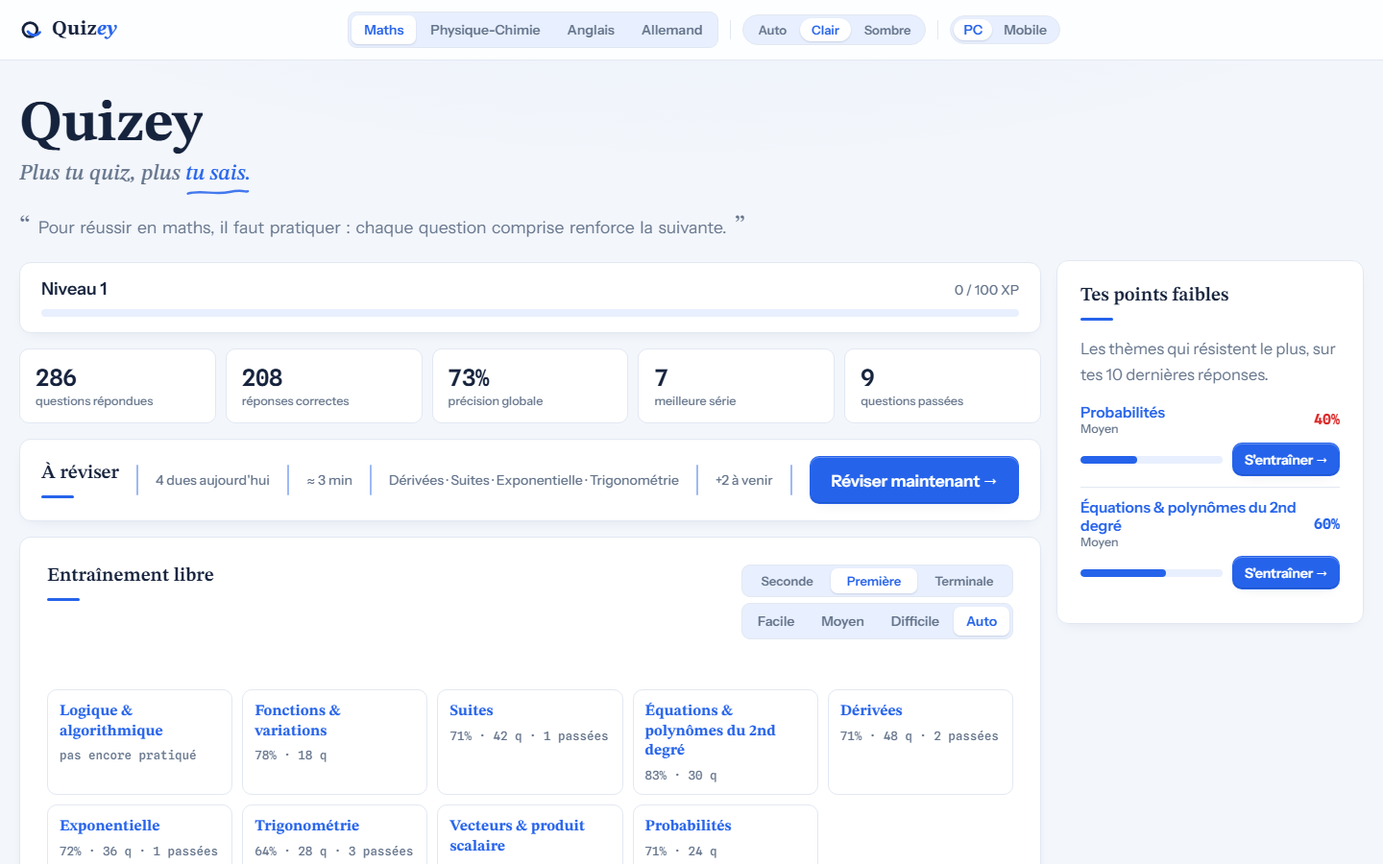
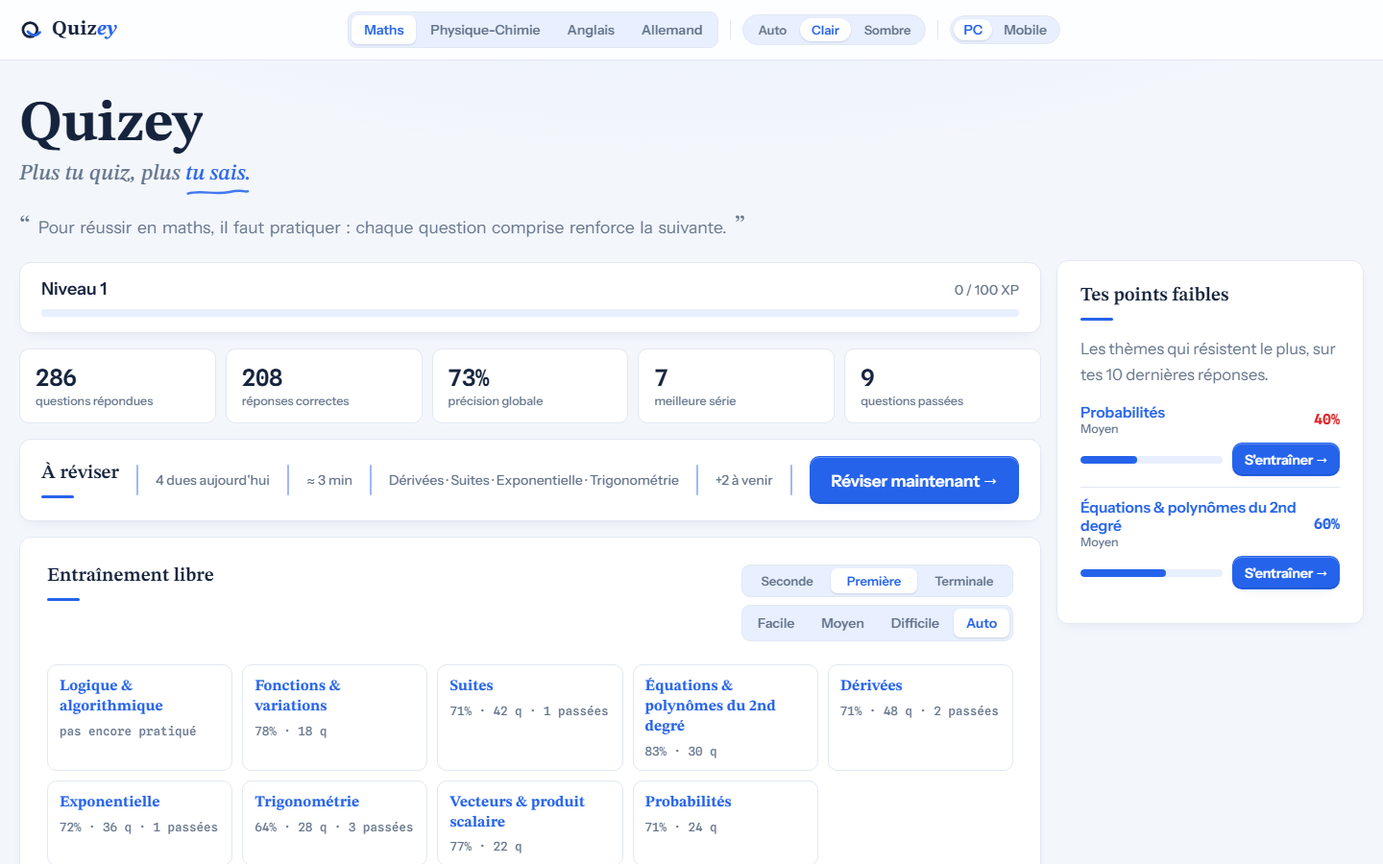
Montée de niveau grossie (~1,3× : halo, carte, anneau, numéro, étincelles — durées et séquence intactes) ; case « Maths expertes » désormais ABSENTE en Seconde/Première (hidden, plus d'espace réservé — écart « niveaux → chapitres » = autres matières), resserrement ≈52 px scopé Terminale seule via :h

diff --git a/Quizey.html b/Quizey.html
@@ -346,10 +346,10 @@ html.boot .slogan .soft{opacity:0;animation:saiIn .5s var(--ease) both;animation
    (2026-08-23, Cid). Même gabarit que les lignes Année/Niveau (13 px,
    padding 5×10, rayon 9) et ton DISCRET : le texte est en étalon, la case
    petite ; seule la sélection passe à l'accent — même langage que les
-   boutons .seg-btn.on (fond surface + accent + ombre). En maths, l'espace
-   de la ligne est RÉSERVÉ en permanence (syncXopt pose .off =
-   visibility:hidden, pas display:none) → le bloc ne change plus de taille
-   quand on sélectionne une autre année. Absente en PC/DE/EN (hidden). */
+   boutons .seg-btn.on (fond surface + accent + ombre). Visible UNIQUEMENT
+   maths × Terminale : en Seconde/Première et en PC/DE/EN elle est
+   totalement absente (hidden — 2026-08-24, 2ᵉ passe Cid : plus d'espace
+   réservé, l'écart « niveaux → chapitres » est le même qu'ailleurs). */
 .xopt{display:flex;align-items:center;gap:8px;cursor:pointer;user-select:none;
   font:500 13px/1.35 var(--f-body);color:var(--muted);
   background:var(--accent-soft);border:1px solid var(--line);border-radius:9px;padding:5px 10px;
@@ -358,16 +358,17 @@ html.boot .slogan .soft{opacity:0;animation:saiIn .5s var(--ease) both;animation
 .xopt.on{color:var(--accent);border-color:var(--accent);background:var(--surface);box-shadow:0 1px 2px rgba(31,46,71,.14)}
 .xopt input{accent-color:var(--accent);width:14px;height:14px;flex:none;margin:0;cursor:pointer}
 .xopt[hidden]{display:none}
-.xopt.off{visibility:hidden}
-/* (2026-08-24, Cid) : en maths, l'écart visible « niveaux → chapitres »
-   contenait la ligne expertes RÉSERVÉE (~26 px, .off) + 2 gaps de 8 px + la
-   marge de tête de 24 px ≈ 58 px, contre ~24 px en PC/DE/EN — jugé légèrement
-   trop grand. On le resserre de ~10 px (gaps 8→6 px, marge 24→16 px) en maths
-   SEULE (la ligne expertes n'existe que là) : la réservation reste exactement
-   égale à la hauteur visible → aucun changement de taille au changement
-   d'année, comme avant. */
-:root:not([data-mat]) .picks{gap:6px}
-:root:not([data-mat]) .lead-head{margin-bottom:16px}
+/* (2026-08-24, Cid, 2 passe) : en maths, l'écart visible « niveaux →
+   chapitres » contenait la ligne expertes + 2 gaps de 8 px + la marge de tête
+   de 24 px ≈ 58 px, contre ~24 px en PC/DE/EN — jugé trop grand. En
+   SECONDE/PREMIÈRE la ligne est maintenant ABSENTE (syncXopt pose hidden) →
+   l'écart y est déjà le même qu'ailleurs (~24 px). Le resserrement
+   (gaps 8→6 px, marge 24→16 px ≈ 52 px) ne s'applique donc plus qu'en
+   TERMINALE, seule année où la ligne est visible — scopé via :has() sur le
+   bouton d'année actif. Vieil navigateur sans :has → règles ignorées → écart
+   par défaut (la ligne reste masquée par le JS, donc pas de régression). */
+:root:not([data-mat]):has(#yearRow [data-year="terminale"].on) .picks{gap:6px}
+:root:not([data-mat]):has(#yearRow [data-year="terminale"].on) .lead-head{margin-bottom:16px}
 /* (2026-08-24, Cid) Checkbox « Maths expertes » EN MODE SOMBRE : fini le
    carré natif blanc (et l'état coché #60A5FA, quasi-blanc sur le fond nuit)
    — la case est dessinée, en bleu de marque #2563EB (lisible sur le bleu
@@ -752,17 +753,17 @@ html.boot .subcard{animation:rvIn .7s var(--ease) both;animation-delay:calc((.95
 .lvlup.go{opacity:1}
 .lvlup.bye{opacity:0}
 .lvlup-glow{
-  position:absolute;left:50%;top:50%;width:min(440px,94vw);height:min(440px,94vw);border-radius:50%;
+  position:absolute;left:50%;top:50%;width:min(560px,96vw);height:min(560px,96vw);border-radius:50%;
   background:radial-gradient(closest-side,var(--accent-soft),transparent 72%);
   opacity:0;transform:translate(-50%,-50%) scale(.55);
   transition:opacity .55s var(--ease),transform .7s cubic-bezier(.2,1.3,.4,1);
 }
 .lvlup.go .lvlup-glow{opacity:.85;transform:translate(-50%,-50%) scale(1)}
 .lvlup.up .lvlup-glow{opacity:1;transform:translate(-50%,-50%) scale(1.14)}
-.lvlup-card{display:flex;flex-direction:column;align-items:center;gap:12px;padding:26px 36px;background:var(--surface);border:1px solid var(--line);border-radius:18px;box-shadow:var(--shadow);transform:scale(.7);transition:transform .4s cubic-bezier(.34,1.56,.64,1)}
+.lvlup-card{display:flex;flex-direction:column;align-items:center;gap:14px;padding:30px 44px;background:var(--surface);border:1px solid var(--line);border-radius:18px;box-shadow:var(--shadow);transform:scale(.7);transition:transform .4s cubic-bezier(.34,1.56,.64,1)}
 .lvlup.go .lvlup-card{transform:scale(1)}
-.lvlup-kick{font:600 12px var(--f-body);text-transform:uppercase;letter-spacing:.14em;color:var(--muted)}
-.lvlup-numwrap{position:relative;width:124px;height:124px;display:grid;place-items:center}
+.lvlup-kick{font:600 13px var(--f-body);text-transform:uppercase;letter-spacing:.14em;color:var(--muted)}
+.lvlup-numwrap{position:relative;width:160px;height:160px;display:grid;place-items:center}
 .lvlup-ring{position:absolute;inset:0;width:100%;height:100%;transform:rotate(-90deg)}
 .lvlup-ring circle{fill:none;stroke-width:4}
 .lvlup-ring .ring-bg{stroke:var(--accent-soft)}
@@ -770,10 +771,10 @@ html.boot .subcard{animation:rvIn .7s var(--ease) both;animation-delay:calc((.95
    rapide. COUPLÉ au setTimeout du swap de numéro dans levelUp() : ce
    dernier doit rester APRÈS la fin du remplissage (0,15 + 1,4 = 1,55 s). */
 .lvlup-ring .ring-fg{stroke:var(--accent);stroke-linecap:round;transition:stroke-dashoffset 1.4s var(--ease) .15s}
-.lvlup-num{font:700 46px/1 var(--f-display);color:var(--muted);transition:color .3s var(--ease)}
+.lvlup-num{font:700 60px/1 var(--f-display);color:var(--muted);transition:color .3s var(--ease)}
 .lvlup.up .lvlup-num{color:var(--accent);animation:numPop .55s var(--ease);filter:drop-shadow(0 3px 10px var(--accent))}
 @keyframes numPop{0%{transform:scale(.45)}60%{transform:scale(1.2)}100%{transform:scale(1)}}
-.lvlup-nm{font:600 14px var(--f-body);color:var(--muted)}
+.lvlup-nm{font:600 15px var(--f-body);color:var(--muted)}
 .lvlup-sparks{position:absolute;inset:0}
 .lvlup-sparks i{position:absolute;left:50%;top:50%;border-radius:50%;opacity:0}
 .lvlup.up .lvlup-sparks i{animation:sparkFly .95s var(--ease) forwards}
@@ -1029,6 +1030,11 @@ const F=(n,d)=>{const f=fr(n,d);if(f.d===1)return f.n<0?"−"+(-f.n):String(f.n)
 const fs=(n,d)=>F(n,d);   /* affichage d'une réponse fraction (fraction empilée) */
 const fa=(n,d)=>fr(n,d);   /* réponse "fraction" : {n,d} simplifiée */
 const shuf=a=>{a=a.slice();for(let i=a.length-1;i>0;i--){const j=Ri(0,i);[a[i],a[j]]=[a[j],a[i]];}return a;};
+/* Exposants Unicode (2026-08-24, Cid) : rend un entier en superscript typographique
+   (2 → «²», −12 → «⁻¹²») pour les énoncés maths — plus lisible que «^2».
+   Un caractère hors chiffres/minus se replie tel quel (jamais d'erreur). */
+const SUP={0:"⁰",1:"¹",2:"²",3:"³",4:"⁴",5:"⁵",6:"⁶",7:"⁷",8:"⁸",9:"⁹","-":"⁻"};
+const sup=(v)=>String(v).split("").map(c=>SUP[c]||c).join("");
 const qcm=(p,bonne,ds,explain,viz)=>{const o=shuf([bonne,...ds]);const r={prompt:p,type:"choice",options:o,correct:o.indexOf(bonne),explain};if(viz)r.viz=viz;return r;}; /* QCM : options mélangées, correct = index réel de la bonne option ; viz optionnel (mini-visuel) */
 /* ================= GENERATORS ================= */
 
@@ -1046,7 +1052,7 @@ const G_S2_LOG=[
    const bank=[
     {p:"Tout carré d'un entier est positif.",n:"Il existe un entier dont le carré n'est pas positif.",d:["Aucun carré d'entier n'est positif.","Tous les carrés d'entiers sont négatifs."]},
     {p:"Tout multiple de 4 est un multiple de 2.",n:"Il existe un multiple de 4 qui n'est pas un multiple de 2.",d:["Aucun multiple de 4 n'est un multiple de 2.","Tout multiple de 2 est un multiple de 4."]},
-    {p:"Il existe un nombre réel dont le carré vaut −1.",n:"Tout nombre réel a un carré différent de −1.",d:["Aucun nombre réel n'a de carré.","Tous les carrés de réels valent −1."]}
+    {p:"Il existe x ∈ ℝ tel que x² = −1.",n:"Pour tout x ∈ ℝ, x² ≠ −1.",d:["Aucun nombre réel n'a de carré.","Tous les carrés de réels valent −1."]}
    ];
    const b=pick(bank);
    return qcm(`Quelle est la négation de la proposition « ${b.p} » ?`,b.n,b.d,
@@ -1101,7 +1107,7 @@ let _s2flip=0; /* alternance PGCD / PPCM entre tirages consécutifs */
 const G_S2_NUM=[
  {lvl:"facile",make(){
    const a=Ri(2,7),b=Ri(0,4);
-   return{prompt:`Calcule 2^${a} × 2^${b} = 2^c. Quel est c ?`,
+   return{prompt:`Calcule 2${sup(a)} × 2${sup(b)} = 2ᶜ. Quel est c ?`,
     type:"number",answer:a+b,
     explain:`Même base : on additionne les exposants — ${a} + ${b} = <b>${a+b}</b>.`};
  }},
@@ -1158,9 +1164,9 @@ const G_S2_FONC=[
 const G_S2_VECT=[
  {lvl:"facile",make(){
    const u=[Ri(1,4),Ri(1,4)],k=Ri(2,6);
-   return{prompt:`u = (${u[0]} ; ${u[1]}) et v = (${k*u[0]} ; ${k*u[1]}). Sachant que v = k · u, calcule k.`,
+   return{prompt:`u⃗ = (${u[0]} ; ${u[1]}) et v⃗ = (${k*u[0]} ; ${k*u[1]}). Sachant que v⃗ = k · u⃗, calcule k.`,
     type:"number",answer:k,
-    explain:`v = k·u ⇒ k = v_x / u_x = ${k*u[0]} / ${u[0]} = <b>${k}</b>.<br>Vérif sur la 2ᵉ coordonnée : ${k*u[1]} / ${u[1]} = ${k}. ✓`};
+    explain:`v⃗ = k·u⃗ ⇒ k = vₓ / uₓ = ${k*u[0]} / ${u[0]} = <b>${k}</b>.<br>Vérif sur la 2ᵉ coordonnée : ${k*u[1]} / ${u[1]} = ${k}. ✓`};
  }},
  {lvl:"moyen",make(){
    const d=pick([[3,4,5],[5,12,13],[8,15,17],[9,12,15]]);
@@ -1282,7 +1288,7 @@ const G_SUITES=[
    const an=u0*Math.pow(q,n);
    return{prompt:`(uₙ) est géométrique de premier terme u₀ = ${u0} et de raison q = ${q}. Calcule u${sub(n)}.`,
     type:"number",answer:an,
-    explain:`uₙ = u₀ × qⁿ = ${u0} × ${q}^${n} = <b>${an}</b>.`};
+    explain:`uₙ = u₀ × q${sup(n)} = ${u0} × ${q}${sup(n)} = <b>${an}</b>.`};
  }},
  {lvl:"difficile",make(){
    const a=pick([2,3,-2]),b=pick([-4,-2,2,4]),u0=pick([-3,-2,-1,1,2,3]);
@@ -1312,7 +1318,7 @@ const G_EQ2=[
    const pt=p===0?"":(p>0?` + ${p}x`:` − ${-p}x`);
    const qt=q>0?` + ${q}`:` − ${-q}`;
    const somme=pick([1,0]);
-   return{prompt:`L'équation x²${pt}${qt} = 0 a deux racines réelles. Calcule ${somme?"la somme":"le produit"} des racines.`,
+   return{prompt:`L'équation x²${pt}${qt} = 0 admet deux racines dans ℝ. Calcule ${somme?"la somme":"le produit"} des racines.`,
     type:"number",answer:somme?a+b:a*b,
     explain:`Relations de Viète : pour x² + px + q = 0, la somme des racines vaut −p et le produit vaut q.<br>Ici ${somme?`la somme vaut −(${p}) = <b>${a+b}</b>`:`le produit vaut q = <b>${a*b}</b>`}.`};
  }},
@@ -1360,21 +1366,21 @@ const G_DERIV=[
 const G_LOGEXP=[
  {lvl:"facile",make(){
    const a=Ri(-5,5),b=Ri(-5,5);
-   return{prompt:`Sachant que e^${a} × e^${b} = e^c, calcule c.`,
+   return{prompt:`Sachant que e${sup(a)} × e${sup(b)} = eᶜ, calcule c.`,
     type:"number",answer:a+b,
     explain:`Propriété de l'exponentielle : e^a × e^b = e^(a+b).<br>Donc c = ${a} + ${b} = <b>${a+b}</b>.`};
  }},
  {lvl:"moyen",make(){
    const m=pick([2,3,-2]),x=Ri(-4,4),c=m*x;
-   return{prompt:`Résous l'équation e^(${m}x) = e^${c}.`,
+   return{prompt:`Résous l'équation e^(${m}x) = e${sup(c)}.`,
     type:"number",answer:x,
     explain:`La fonction exp est strictement croissante, donc injective : e^u = e^v ⇔ u = v.<br>Donc ${m}x = ${c} → x = <b>${x}</b>.`};
  }},
  {lvl:"difficile",make(){
    const n=pick([1,2,3]);
-   return qcm(`Quelle est la limite de e^x / x^${n} quand x → +∞ ?`,
+   return qcm(`Quelle est la limite de eˣ / x${sup(n)} quand x → +∞ ?`,
     `+∞`,[`0`,`−∞`,`La limite n'existe pas`],
-    `Croissance comparée : l'exponentielle l'emporte sur toute puissance de x.<br>e^x / x^${n} → <b>+∞</b> (et réciproquement x^${n} / e^x → 0).`);
+    `Croissance comparée : l'exponentielle l'emporte sur toute puissance de x.<br>eˣ / x${sup(n)} → <b>+∞</b> (et réciproquement x${sup(n)} / eˣ → 0).`);
  }}
 ];
 
@@ -1421,19 +1427,19 @@ const G_VECT=[
  {lvl:"facile",make(){
    const u=[Ri(-5,5)||2,Ri(-5,5)||1],v=[Ri(-5,5)||1,Ri(-5,5)||3];
    const p=u[0]*v[0]+u[1]*v[1];
-   return{prompt:`u = (${u[0]} ; ${u[1]}) et v = (${v[0]} ; ${v[1]}). Calcule le produit scalaire u·v.`,
+   return{prompt:`u⃗ = (${u[0]} ; ${u[1]}) et v⃗ = (${v[0]} ; ${v[1]}). Calcule le produit scalaire u⃗·v⃗.`,
     type:"number",answer:p,
-    explain:`u·v = ${u[0]} × ${v[0]} + ${u[1]} × ${v[1]} = ${u[0]*v[0]} ${u[1]*v[1]<0?"− "+(-u[1]*v[1]):"+ "+u[1]*v[1]} = <b>${p}</b>.`};
+    explain:`u⃗·v⃗ = ${u[0]} × ${v[0]} + ${u[1]} × ${v[1]} = ${u[0]*v[0]} ${u[1]*v[1]<0?"− "+(-u[1]*v[1]):"+ "+u[1]*v[1]} = <b>${p}</b>.`};
  }},
  {lvl:"moyen",make(){
    const u=pick([[1,2],[2,1],[1,3],[3,2]]);
    const v=[u[1],-u[0]];
    const bad=shuf([[1,1],[2,3],[1,-1],[3,1]].filter(w=>u[0]*w[0]+u[1]*w[1]!==0)).slice(0,2);
    const d1=bad[0],d2=bad[1];
-   return qcm(`Quel couple de vecteurs du plan est orthogonal ?`,
-    `u = (${u[0]} ; ${u[1]}) et v = (${v[0]} ; ${v[1]})`,
-    [`u = (${u[0]} ; ${u[1]}) et v = (${d1[0]} ; ${d1[1]})`,`u = (${u[0]} ; ${u[1]}) et v = (${d2[0]} ; ${d2[1]})`],
-    `Deux vecteurs sont orthogonaux si et seulement si u·v = 0 : ici ${u[0]} × ${v[0]} + ${u[1]} × ${v[1]} = <b>0</b>.`);
+   return qcm(`Quel couple de vecteurs du plan est orthogonal (u⃗ ⊥ v⃗) ?`,
+    `u⃗ = (${u[0]} ; ${u[1]}) et v⃗ = (${v[0]} ; ${v[1]})`,
+    [`u⃗ = (${u[0]} ; ${u[1]}) et v⃗ = (${d1[0]} ; ${d1[1]})`,`u⃗ = (${u[0]} ; ${u[1]}) et v⃗ = (${d2[0]} ; ${d2[1]})`],
+    `Deux vecteurs sont orthogonaux si et seulement si u⃗·v⃗ = 0 : ici ${u[0]} × ${v[0]} + ${u[1]} × ${v[1]} = <b>0</b>.`);
  }},
  {lvl:"difficile",make(){
    const d=pick([[3,4,5],[5,12,13],[8,15,17],[9,12,15]]);
@@ -1449,7 +1455,7 @@ const G_PROBA=[
    const n=pick([2,3,4]);
    return{prompt:`On lance ${n} fois une pièce équilibrée. Quelle est la probabilité d'obtenir pile les ${n} fois ?`,
     type:"frac",answer:fa(1,Math.pow(2,n)),
-    explain:`Les lancers sont indépendants : P = (1/2)^${n} = 1/${Math.pow(2,n)} = <b>${F(1,Math.pow(2,n))}</b>.`};
+    explain:`Les lancers sont indépendants : P = (1/2)${sup(n)} = 1/${Math.pow(2,n)} = <b>${F(1,Math.pow(2,n))}</b>.`};
  }},
  {lvl:"moyen",make(){
    const bank=[
@@ -1478,10 +1484,10 @@ const G_PROBA=[
 /* ---------- TERMINALE — Logique & listes (nouveau — BO 2026) ---------- */
 const G_T_LOG=[
  {lvl:"facile",make(){
-   return qcm(`Quelle est la négation de « il existe un réel x tel que x² = 2 » ?`,
-    `tout réel x vérifie x² ≠ 2`,
-    [`il existe un réel x tel que x² ≠ 2`,`tout réel x vérifie x² = 2`,`il n'existe aucun réel`],
-    `Négation de « ∃ x, P(x) » = « ∀ x, non P(x) ».<br>→ « tout réel a un carré différent de 2 ».`);
+   return qcm(`Quelle est la négation de « il existe x ∈ ℝ tel que x² = 2 » ?`,
+    `pour tout x ∈ ℝ, x² ≠ 2`,
+    [`il existe x ∈ ℝ tel que x² ≠ 2`,`pour tout x ∈ ℝ, x² = 2`,`il n'existe aucun réel`],
+    `Négation de « ∃ x, P(x) » = « ∀ x, non P(x) ».<br>→ « pour tout x ∈ ℝ, x² ≠ 2 ».`);
  }},
  {lvl:"moyen",make(){
    const a=Ri(1,6),b=Ri(1,6);
@@ -1503,7 +1509,7 @@ const G_T_DEN=[
    const n=Ri(4,9),k=pick([2,3]),an=Math.pow(n,k);
    return{prompt:`Combien de mots de ${k} lettres peut-on former avec un alphabet de ${n} lettres (répétition autorisée) ?`,
     type:"number",answer:an,
-    explain:`Principe multiplicatif : ${n} choix pour la 1ʳᵉ lettre, ${n} pour la 2ᵉ, etc.<br>Nombre de k-uplets = ${n}^${k} = <b>${an}</b>.`};
+    explain:`Principe multiplicatif : ${n} choix pour la 1ʳᵉ lettre, ${n} pour la 2ᵉ, etc.<br>Nombre de k-uplets = ${n}${sup(k)} = <b>${an}</b>.`};
  }},
  {lvl:"moyen",make(){
    const n=Ri(3,7);
@@ -1528,19 +1534,19 @@ const G_T_ESP=[
  {lvl:"facile",make(){
    const u=[Ri(1,4),Ri(1,4),Ri(1,3)],k=Ri(2,4);
    const v=[k*u[0],k*u[1],k*u[2]];
-   return qcm(`u = (${u[0]} ; ${u[1]} ; ${u[2]}) et v = (${v[0]} ; ${v[1]} ; ${v[2]}). Ces deux vecteurs sont :`,
+   return qcm(`u⃗ = (${u[0]} ; ${u[1]} ; ${u[2]}) et v⃗ = (${v[0]} ; ${v[1]} ; ${v[2]}). Ces deux vecteurs sont :`,
     `colinéaires`,
     [`orthogonaux`,`ni colinéaires ni orthogonaux`,`égaux`],
-    `Les trois composantes de v sont égales à ${k} fois celles de u : v = ${k}·u, donc <b>colinéaires</b>.`);
+    `Les trois composantes de v⃗ sont égales à ${k} fois celles de u⃗ : v⃗ = ${k}·u⃗, donc <b>colinéaires</b>.`);
  }},
  {lvl:"moyen",make(){
    const u=[Ri(1,5),Ri(1,5),Ri(1,4)];
    const ortho=pick([1,0]);
    const v=ortho?[u[1],-u[0],0]:[Ri(1,4),Ri(1,4),Ri(1,4)];
    const p=u[0]*v[0]+u[1]*v[1]+u[2]*v[2];
-   return{prompt:`u = (${u[0]} ; ${u[1]} ; ${u[2]}) et v = (${v[0]} ; ${v[1]} ; ${v[2]}). Calcule u·v.`,
+   return{prompt:`u⃗ = (${u[0]} ; ${u[1]} ; ${u[2]}) et v⃗ = (${v[0]} ; ${v[1]} ; ${v[2]}). Calcule u⃗·v⃗.`,
     type:"number",answer:p,
-    explain:`u·v = ${u[0]} × ${v[0]} + (${u[1]} × ${v[1]}) + (${u[2]} × ${v[2]}) = ${u[0]*v[0]} ${u[1]*v[1]<0?"− "+(-u[1]*v[1]):"+ "+u[1]*v[1]} ${u[2]*v[2]<0?"− "+(-u[2]*v[2]):"+ "+u[2]*v[2]} = <b>${p}</b>${ortho?" (donc u et v sont orthogonaux).":""}`};
+    explain:`u⃗·v⃗ = ${u[0]} × ${v[0]} + (${u[1]} × ${v[1]}) + (${u[2]} × ${v[2]}) = ${u[0]*v[0]} ${u[1]*v[1]<0?"− "+(-u[1]*v[1]):"+ "+u[1]*v[1]} ${u[2]*v[2]<0?"− "+(-u[2]*v[2]):"+ "+u[2]*v[2]} = <b>${p}</b>${ortho?" (donc u⃗ et v⃗ sont orthogonaux).":""}`};
  }},
  {lvl:"difficile",make(){
    const [a,b,c]=shuf([1,2,3,4,5,6]).slice(0,3);
@@ -1587,9 +1593,9 @@ const G_T_SUIT=[
 const G_T_EXP=[
  {lvl:"facile",make(){
    const a=Ri(-5,5);
-   return{prompt:`Calcule ln(e^${a}).`,
+   return{prompt:`Calcule ln(e${sup(a)}).`,
     type:"number",answer:a,
-    explain:`ln est la fonction réciproque de exp : ln(e^x) = x pour tout réel x.<br>Donc ln(e^${a}) = <b>${a}</b>.`};
+    explain:`ln est la fonction réciproque de exp : ln(eˣ) = x pour tout réel x.<br>Donc ln(e${sup(a)}) = <b>${a}</b>.`};
  }},
  {lvl:"moyen",make(){
    const a=Ri(2,12);
@@ -1643,9 +1649,9 @@ const G_T_DER=[
     {a:4,n:3,ans:[16,1]},
     {a:1,n:2,ans:[1,3]}
    ]);
-   return{prompt:`Calcule ∫₀^${d.a} x^${d.n} dx.`,
+   return{prompt:`Calcule ∫₀${sup(d.a)} x${sup(d.n)} dx.`,
     type:"frac",answer:fa(d.ans[0],d.ans[1]),
-    explain:`Une primitive de x^${d.n} est F(x) = x^${d.n+1} / ${d.n+1}.<br>∫₀^${d.a} x^${d.n} dx = F(${d.a}) − F(0) = <b>${F(d.ans[0],d.ans[1])}</b>.`};
+    explain:`Une primitive de x${sup(d.n)} est F(x) = x${sup(d.n+1)} / ${d.n+1}.<br>∫₀${sup(d.a)} x${sup(d.n)} dx = F(${d.a}) − F(0) = <b>${F(d.ans[0],d.ans[1])}</b>.`};
  }},
  {lvl:"difficile",make(){
    return{prompt:`Calcule ∫₀¹ x · eˣ dx (intégration par parties).`,
@@ -1662,7 +1668,7 @@ const G_T_PROBA=[
    const num=C(n,k),den=Math.pow(2,n);
    return{prompt:`X suit la loi binomiale B(${n} ; 1/2). Calcule P(X = ${k}).`,
     type:"frac",answer:fa(num,den),
-    explain:`P(X = k) = C(${n},${k}) × (1/2)^${n} = ${num}/${den} = <b>${F(num,den)}</b>.`};
+    explain:`P(X = k) = C(${n},${k}) × (1/2)${sup(n)} = ${num}/${den} = <b>${F(num,den)}</b>.`};
  }},
  {lvl:"moyen",make(){
    const bank=[
@@ -4415,17 +4421,17 @@ function paintLvlButtons(){
    uniquement en maths × Terminale : elle ajoute les 3 thèmes du programme
    officiel expertes (complexes, arithmétique, graphes & Markov) au pool de
    Terminale — 8 → 11 thèmes. Plus une 4ᵉ année ni un niveau : les boutons
-   de niveau restent Facile/Moyen/Difficile/Auto partout. En maths hors
-   Terminale, la ligne est masquée mais son ESPACE EST RÉSERVÉ (.off =
-   visibility:hidden) → le bloc ne change pas de taille quand on change
-   d'année ; en PC/DE/EN elle est absente (hidden). Persistance
-   qz_experte_math. */
+   de niveau restent Facile/Moyen/Difficile/Auto partout. 2026-08-24, 2ᵉ
+   passe Cid : en maths hors Terminale (Seconde/Première) la ligne est
+   maintenant TOTALEMENT ABSENTE (hidden — plus d'espace réservé .off) →
+   l'écart « niveaux → chapitres » y est le même qu'en PC/DE/EN. En
+   Terminale elle reste visible. Persistance qz_experte_math. */
 function syncXopt(){
   const row=$("#xoptRow"),chk=$("#xoptChk");
   if(!row||!chk)return;
-  const maths=state.matiere==="maths";
-  row.hidden=!maths;   /* absente (display:none) en PC/DE/EN */
-  row.classList.toggle("off",maths&&state.annee!=="terminale"); /* maths : espace réservé, ligne masquée hors Terminale */
+  /* Visible UNIQUEMENT maths × Terminale : ailleurs (Seconde/Première/PC/DE/EN)
+     hidden = display:none, l'écart « niveaux → chapitres » est le même qu'ailleurs. */
+  row.hidden=!(state.matiere==="maths"&&state.annee==="terminale");
   row.classList.toggle("on",!!state.experte);
   chk.checked=!!state.experte;
 }
@@ -5037,9 +5043,9 @@ function levelUp(oldN,newN){
   if(box){
     let h="";
     for(let i=0;i<14;i++){
-      const a=Math.random()*Math.PI*2, d=78+Math.random()*95;
+      const a=Math.random()*Math.PI*2, d=105+Math.random()*115;
       const dx=Math.round(Math.cos(a)*d), dy=Math.round(Math.sin(a)*d);
-      const s=Math.round(4+Math.random()*4);
+      const s=Math.round(5+Math.random()*5);
       const col=Math.random()<.6?"var(--accent)":"#FBBF24";
       h+='<i style="width:'+s+'px;height:'+s+'px;background:'+col+';--dx:'+dx+'px;--dy:'+dy+'px;animation-delay:'+Math.round(Math.random()*140)+'ms"></i>';
     }

diff --git a/_qz_verify.js b/_qz_verify.js
@@ -1400,20 +1400,24 @@ console.log("\n[31] Expertes — case à cocher de Terminale maths (programme of
     ok("les 3 thèmes expertes sont servis sur 99 tirages (mélange)",
        seen.has("t_complexes")&&seen.has("t_arith")&&seen.has("t_graphes"));
   }
-  /* --- F3. UI : ligne « Maths expertes » — ESPACE RÉSERVÉ en maths à toutes
-     les années (pas de saut de mise en page), visible UNIQUEMENT en
-     Terminale, absente en PC/DE/EN --- */
+  /* --- F3. UI : ligne « Maths expertes » — visible UNIQUEMENT maths ×
+     Terminale ; en Seconde/Première elle est TOTALEMENT ABSENTE (hidden,
+     plus d'espace réservé — 2026-08-24, 2ᵉ passe Cid : l'écart « niveaux →
+     chapitres » est alors le même qu'ailleurs), absente en PC/DE/EN --- */
   lsData.clear();
   {
     const env=buildEnv();const ctx=runApp(env);
     const row=()=>env.document.querySelector("#xoptRow");
-    ok("maths/premiere : ligne présente (espace réservé) mais masquée (off)",
-       row().hidden===false&&row().classList.contains("off"));
+    ok("maths/premiere : ligne absente (hidden — plus d'espace réservé)",
+       row().hidden===true);
     vm.runInContext("setAnnee('terminale')",ctx);
-    ok("maths/terminale : ligne visible (ni hidden ni off)",
-       row().hidden===false&&!row().classList.contains("off"));
+    ok("maths/terminale : ligne visible (pas de hidden)",
+       row().hidden===false);
+    vm.runInContext("setAnnee('seconde')",ctx);
+    ok("maths/seconde : ligne absente (hidden)",
+       row().hidden===true);
     vm.runInContext("setMatiere('pc')",ctx);
-    ok("pc/terminale : ligne absente (hidden — maths uniquement)",row().hidden===true);
+    ok("pc : ligne absente (hidden — maths uniquement)",row().hidden===true);
     vm.runInContext("setMatiere('de')",ctx);
     ok("DE : ligne absente (hidden)",row().hidden===true);
   }

diff --git a/docs/verification.md b/docs/verification.md
@@ -55,7 +55,7 @@ Le script compile les **deux** blocs `<script>` (anti-flash + principal) via `vm
 - **Section [28] — hero : pas de ligne classe/matière, phrase de base unique par matière (2026-08-22, sur demande)** : la ligne d'indication (eyebrow) est retirée de **toutes** les matières — `#heroEyebrow` absent du DOM, le code ne le référence plus — et `#heroLede` porte la phrase de base de la matière, **identique quelle que soit l'année** : vérifiée pour les 4 matières (maths « Pour réussir en maths, il faut pratiquer… », PC « …relier les formules aux situations… », DE « …se familiariser avec la langue… », EN « …entendre la langue, la lire et la réutiliser… »), au boot **et** après `setMatiere`/`setAnnee` (maths/PC × année).
 - **Section [29] — doublons hérités de la liste à réviser (2026-08-22, bug signalé par Cid)** : un localStorage hérite de **2 entrées identiques** de la même question (ajoutées par l'ancien `qKey` avant la dédup [21]) → au chargement il n'en reste **une seule**, la **plus avancée** (`reps` max — la progression espacée est intacte), au contenu pédagogique retrouvé via le `qKey` actuel ; une bonne réponse sur cette question élimine alors **toutes** les échéances (avant la correction, la double écriture la faisait revenir en boucle).
 - **Section [30] — puce de niveau dans la barre (2 modes)** : l'écran de question affiche « Niv. N » en **libre et révision**, avant et après la réponse ; une bonne réponse qui franchit un palier passe la puce de N à N+1 **immédiatement** (re-rendue par `gainXp`) ; la bascule de matière (maths → DE) affiche le niveau **DE** — l'XP est par matière, jamais partagée.
-- **Section [31] — case « Maths expertes » (2026-08-23, sur demande de Cid — ex-4ᵉ année maths)** : « Expertes » n'est **plus une année** — c'est une **case à cocher** dans le bloc « Entraînement libre », visible **uniquement en maths × Terminale** : cochée, elle ajoute les **3 thèmes** du programme officiel des maths expertes (complexes, arithmétique, graphes & chaînes de Markov) au pool de Terminale (8 → 11 thèmes). Règles vérifiées — **structure** : `SUBJECTS_MATH.experte` = exactement 3 thèmes (`t_arith`/`t_complexes`/`t_graphes`), `SUBJECTS_PC.experte` **absent**, et les 12 questions expertes sont renivelées **facile/moyen/difficile** (aucun niveau « experte ») ; **années** : `yearsFor()` renvoie **3 années partout** (maths/PC/DE/EN — plus de 4ᵉ année) ; **migration** : `qz_year_math=« experte »` (valeur héritée) → `readYear('maths')=« terminale »` **et la case est cochée** (`qz_experte_math=true`) ; `qz_year_pc=« experte »` → `« premiere »` (PC ne la porte jamais) ; DE/EN → `null` ; valeur corrompue → `« premiere »` ; `yearReady('maths')`/`('pc')` = `true`, `('de')`/`('en')` = `false` ; **`setAnnee('experte')` est refusée partout** (maths et PC — « experte » n'est plus une année) ; **effet** : `activeSubjects()` maths/Terminale = 8 thèmes sans case, **11** cochée (les 3 expertes inclus) — sans effet en PC/Terminale (13) ni en maths/Seconde (6) ; **tirage** : 99 tirages avec case cochée → **tous** dans les 11 thèmes, niveaux **réels** (jamais « experte »), les 3 thèmes expertes servis par le mélange ; **UI** : la ligne « Maths expertes » occupe **un espace réservé en maths à toutes les années** (classe `.off` = `visibility:hidden` — pas de saut de mise en page au choix de Terminale), **visible uniquement en Terminale**, et **absente** (`hidden`) en PC/DE/EN ; cochage/décochage → `state.experte` + persistance `qz_experte_math` + **poche ré-ouverte** (`bagKey()` change) ; valeur corrompue → `false` (jamais d'erreur) ; **Auto** plafonne à « difficile » (100 % de réussite) — il ne propose **jamais** « experte » ; **scoring** : une bonne réponse « facile » rapporte **+8 XP** (5 × 1.5 maths — pas le 20 legacy). `PTS_LVL.experte=20` et `LVL_NAMES.experte=« Experte »` restent **en lecture** (légacy, pour les lignes `history` héritées) mais ne servent plus à aucun contenu neuf.
+- **Section [31] — case « Maths expertes » (2026-08-23, sur demande de Cid — ex-4ᵉ année maths)** : « Expertes » n'est **plus une année** — c'est une **case à cocher** dans le bloc « Entraînement libre », visible **uniquement en maths × Terminale** : cochée, elle ajoute les **3 thèmes** du programme officiel des maths expertes (complexes, arithmétique, graphes & chaînes de Markov) au pool de Terminale (8 → 11 thèmes). Règles vérifiées — **structure** : `SUBJECTS_MATH.experte` = exactement 3 thèmes (`t_arith`/`t_complexes`/`t_graphes`), `SUBJECTS_PC.experte` **absent**, et les 12 questions expertes sont renivelées **facile/moyen/difficile** (aucun niveau « experte ») ; **années** : `yearsFor()` renvoie **3 années partout** (maths/PC/DE/EN — plus de 4ᵉ année) ; **migration** : `qz_year_math=« experte »` (valeur héritée) → `readYear('maths')=« terminale »` **et la case est cochée** (`qz_experte_math=true`) ; `qz_year_pc=« experte »` → `« premiere »` (PC ne la porte jamais) ; DE/EN → `null` ; valeur corrompue → `« premiere »` ; `yearReady('maths')`/`('pc')` = `true`, `('de')`/`('en')` = `false` ; **`setAnnee('experte')` est refusée partout** (maths et PC — « experte » n'est plus une année) ; **effet** : `activeSubjects()` maths/Terminale = 8 thèmes sans case, **11** cochée (les 3 expertes inclus) — sans effet en PC/Terminale (13) ni en maths/Seconde (6) ; **tirage** : 99 tirages avec case cochée → **tous** dans les 11 thèmes, niveaux **réels** (jamais « experte »), les 3 thèmes expertes servis par le mélange ; **UI** : la ligne « Maths expertes » est **visible uniquement en maths × Terminale** ; en Seconde/Première elle est **totalement absente** (`hidden` — plus d'espace réservé, l'écart « niveaux → chapitres » est alors le même qu'ailleurs ; 2026-08-24, 2ᵉ passe Cid), et absente en PC/DE/EN ; le resserrement de cet écart (≈ 52 px) est **scopé Terminale seule** via `:has(#yearRow [data-year="terminale"].on)` ; cochage/décochage → `state.experte` + persistance `qz_experte_math` + **poche ré-ouverte** (`bagKey()` change) ; valeur corrompue → `false` (jamais d'erreur) ; **Auto** plafonne à « difficile » (100 % de réussite) — il ne propose **jamais** « experte » ; **scoring** : une bonne réponse « facile » rapporte **+8 XP** (5 × 1.5 maths — pas le 20 legacy). `PTS_LVL.experte=20` et `LVL_NAMES.experte=« Experte »` restent **en lecture** (légacy, pour les lignes `history` héritées) mais ne servent plus à aucun contenu neuf.
 - **Section [32] — anti-répétition (shuffle-bag, 2026-08-23)** : en mode libre, le tirage ne pioche plus un thème « avec remise ». Une **poche** (`genBag`, en mémoire, jamais persistée) regroupe toutes les questions disponibles du tirage courant — chaque thème visible (ou verrouillé, ou multi-sélectionné) × niveau cible (Auto = niveau adapté au thème) — et chaque question est servie **une seule fois** avant remélange de la poche. Tests : **A** mix — N tirages (N = nombre de générateurs disponibles au niveau) → N générateurs **distincts**, puis la poche se remélange (le tirage suivant reste valide) ; **B** verrouillé sur un thème — 6 tirages → **tous** ce thème (pas de fuite) ; **C** « difficile » — tirage valide (sujet + prompt non vide + type), qui exerce le repli « aucun générateur au niveau → tous » ; **D** multi-sélection de 2 thèmes — 12 tirages → **uniquement** ces deux thèmes, et les deux sont servis. Le mode **review** est hors poche (il sert l'échue `reviewDue()[0]`). Note API : `state.sel` (tableau d'ids, vide = mix) remplace l'ancien `state.subject` (string) — session-only, **aucune migration**.
 
 **CI GitHub Actions** : la suite tourne automatiquement sur `main` et les PR via `.github/workflows/verify.yml` (Node 22, `node _qz_verify.js`). Aucune dépendance à installer — le fichier de test n'utilise que `vm`, `fs` et un DOM factice.
